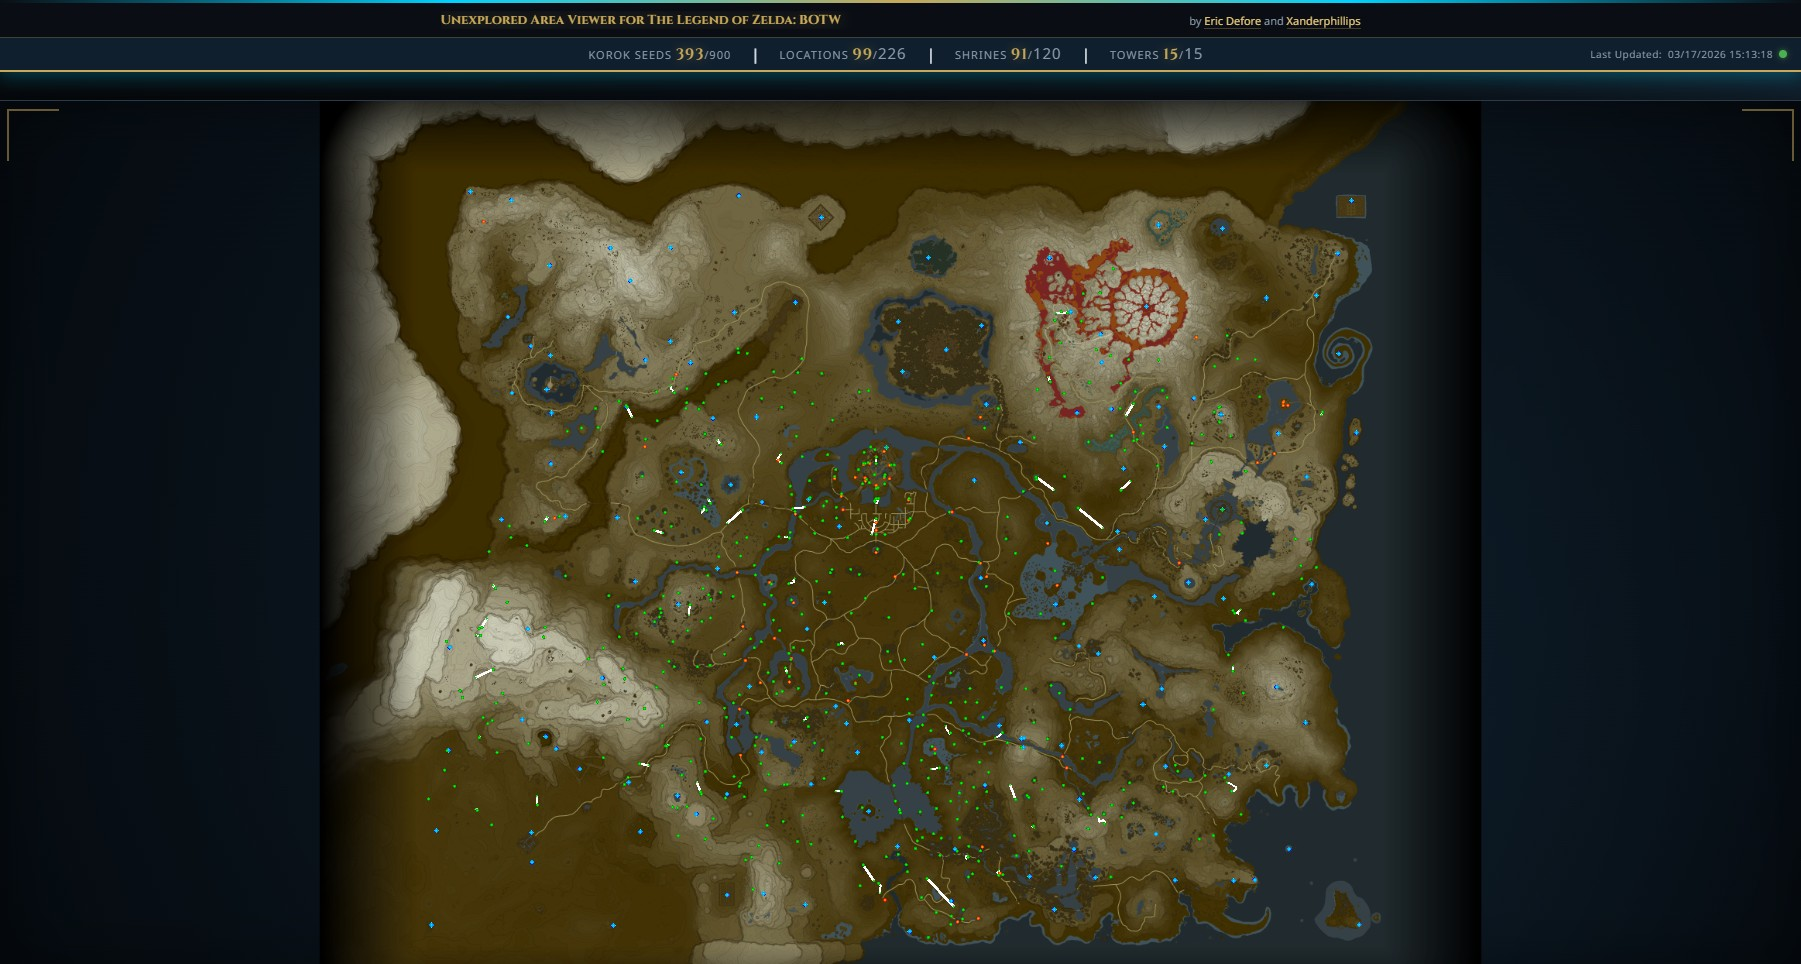
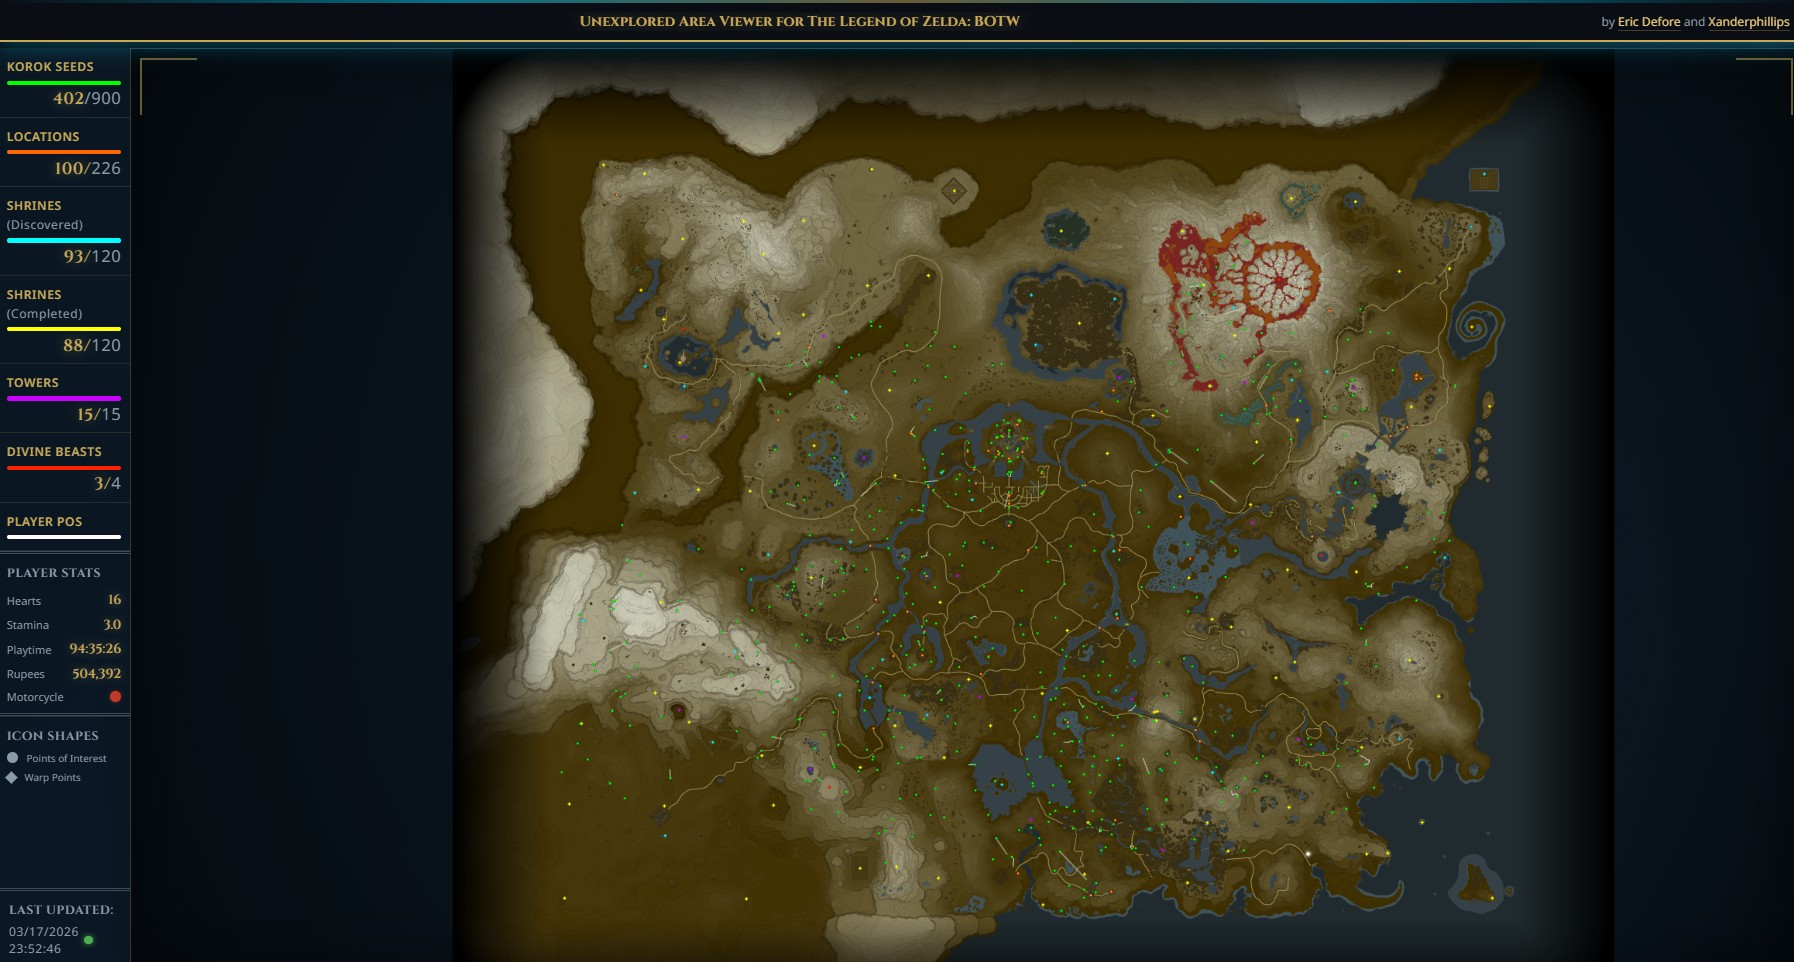
Add Location Metrics sidebar header and update README
- Add LOCATION METRICS section title to sidebar, matching the style of
  PLAYER STATS and ICON SHAPES headers (Cinzel, uppercase, muted color)
- Add .toolbar-section-title CSS class for the new header
- README: add Icon Shapes as a named section header to match sidebar UI;
  move hover tooltip paragraph into that section; incorporate removal of
  personal backstory intro; clarify that map refreshes on Manual Save only,
  not autosave checkpoints; update screenshot

diff --git a/assets/css/zelda-botw.css b/assets/css/zelda-botw.css
@@ -346,6 +346,15 @@ button.with-icon.file-load:before{background-position:-32px -48px;width:20px;hei
 	font-weight:600;
 	text-shadow:0 0 10px rgba(201,169,89,0.4);
 }
+.toolbar-section-title{
+	font-family:'Cinzel',serif;
+	font-size:11px;
+	font-weight:700;
+	color:var(--botw-text-muted);
+	text-transform:uppercase;
+	letter-spacing:0.5px;
+	padding:10px 8px 4px;
+}
 #player-stats-section{
 	padding:10px 8px 8px;
 	border-top:3px double rgba(100,120,140,0.55);

diff --git a/index.html b/index.html
@@ -31,6 +31,7 @@
 </div>
 
 <div id="toolbar" class="hidden">
+	<div class="toolbar-section-title">Location Metrics</div>
 	<label for="span-number-koroks" data-type="korok">Korok seeds
 		<span class="legend-bar dot-korok"></span>
 		<span class="stat-value"><span id="span-number-koroks"></span><span id="span-number-total-koroks">/900</span></span>

diff --git a/README.md b/README.md
@@ -2,11 +2,7 @@
 
 ### Because there _really_ needed to be 900 of them, right?
 
-I was sitting around 600 Koroks found and was having a really difficult time following any sort of checklist to find the rest since I would need to check off all 600 that I found before it would be useful for me.
-
-So, I slapped this together to parse a Cemu save file to show only the Koroks and Locations that I have yet to find. As you find them in-game, the map automatically refreshes to reflect your progress.
-
-A fixed sidebar on the left tracks your progress across two sections:
+A fixed sidebar on the left tracks your progress:
 
 #### Location Metrics
 Each entry is color-coded, hoverable, and toggleable:
@@ -36,7 +32,9 @@ Read directly from the save file — no game interaction required:
 | Rupees | Current rupee count |
 | Motorcycle | Green = Master Cycle owned, Red = not yet |
 
+#### Icon Shapes
 Map icons use shape and color to indicate type:
+
 - **Circles** — Korok seeds (green) and Locations (orange)
 - **Diamonds** — Shrines discovered (cyan), Shrines completed (yellow), Towers (violet), Divine Beasts (red), and other Warp Points
 - **Glowing circle** — Player position (white)
@@ -97,7 +95,7 @@ This application runs as a Docker container that automatically reads your Cemu s
 
 - The server reads your Cemu save file from the path defined in `server/.env`
 - The save file is monitored for changes every 10 seconds
-- When the save file is updated after playing, the page automatically refreshes to show your latest progress
+- The map automatically refreshes with each **Manual Save**. Autosave checkpoints do not trigger a refresh.
 
 ### Supported Game Versions
 
